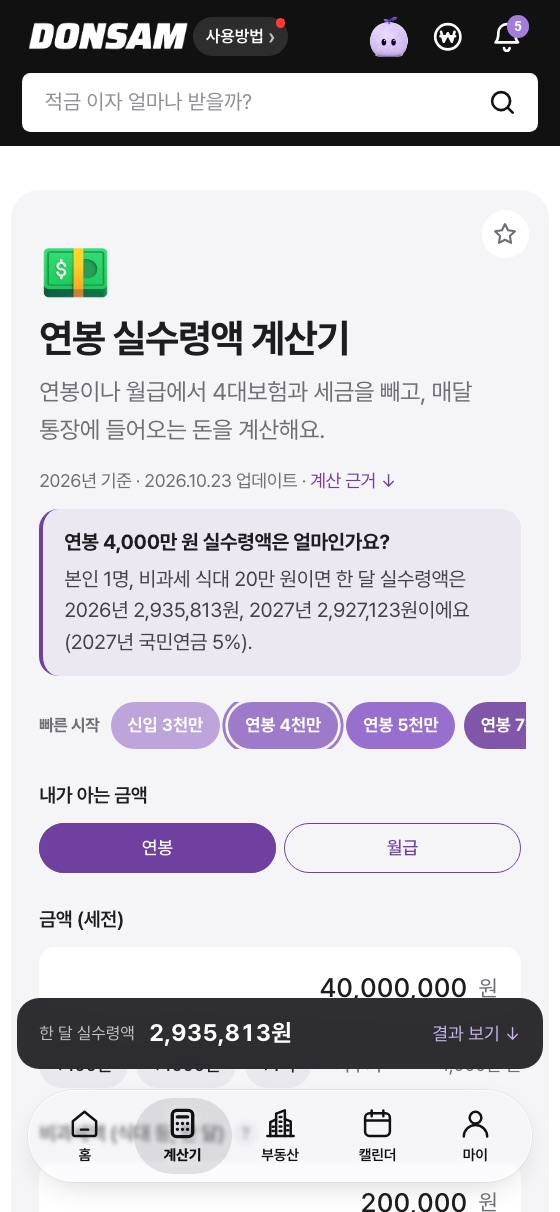
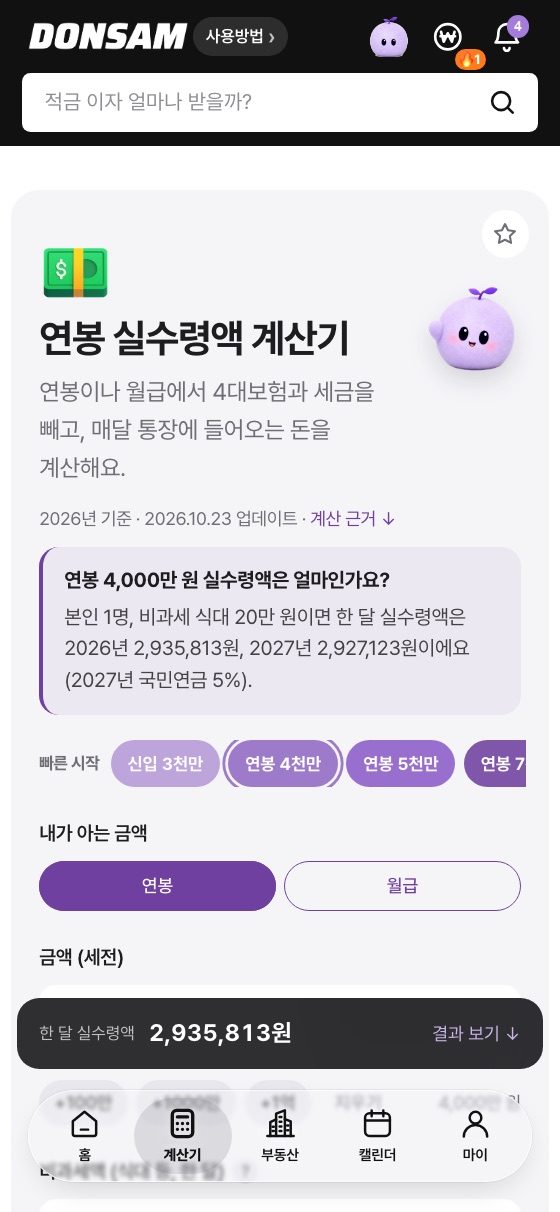
Add files via upload

diff --git a/app.js b/app.js
@@ -4977,7 +4977,7 @@ const PARTNER_LINKS = {
   const SEC = { 1: ['돈 계산 기초', '생활 속 돈 계산을 하나씩 해 보며 돈셈 계산기와 친해져요.'], 2: ['돈 관리 습관', '출석·캘린더·셈이·자산 기능으로 매일 돈을 챙기는 습관을 만들어요.'], 3: ['돈 고수', '투자·절세·내 집 마련까지, 한 단계 깊은 돈 계산에 도전해요.'] };
   const icon = id => I[id] || `/icons/${id}.webp`;
   // 유닛마다 다른 셈이 (듀오링고 길 옆 캐릭터처럼)
-  const SEMI = ['coin', 'coffee', 'piggy', 'search', 'house', 'flower', 'pencil', 'card', 'sleep', 'calc', 'gift', 'book', 'wave', 'chart', 'glasses', 'idea', 'umbrella', 'house', 'piggy', 'trophy'];
+  const SEMI = ['coin', 'wallet', 'piggy', 'search', 'house', 'flower', 'briefcase', 'bag', 'sleep', 'hourglass', 'bell', 'calendar', 'phone', 'crown', 'megaphone', 'rocket', 'umbrella', 'key', 'diamond', 'trophy'];
   const data = () => U.map(u => Object.assign({}, u, { d: u.n.map(x => { try { return !!(x[3] ? x[3]() : used(x[2])); } catch (e) { return false; } }) }));
   const OFF = [0, -58, -82, -58, 0, 58, 82, 58];
   window.drawPath = function drawPath() {
@@ -5076,11 +5076,12 @@ const PARTNER_LINKS = {
 
 // ── 11-27 계산기마다 주제에 맞는 셈이 (카드 오른쪽 위) ──
 (() => {
-  const M = { salary: 'wave', wage: 'wave', 'salary-rank': 'trophy', 'holiday-pay': 'gift', 'year-end-tax': 'gift', 'year-end': 'pencil', 'income-tax': 'pencil', vat: 'calc', 'corporate-tax': 'calc', percent: 'calc', date: 'calc', pyeong: 'calc', 'unit-price': 'calc', 'time-value': 'calc',
-    loan: 'coin', 'loan-limit': 'glasses', prepayment: 'glasses', refinance: 'glasses', 'car-loan': 'card', 'jeonse-check': 'glasses', 'should-i': 'glasses', 'financial-income-tax': 'glasses',
-    savings: 'flower', deposit: 'flower', inflation: 'flower', goal: 'trophy', compound: 'chart', invest: 'chart', 'avg-price': 'chart', 'loss-recovery': 'chart', 'etf-fee': 'chart', dividend: 'chart', 'overseas-stock-tax': 'chart', 'asset-rank': 'chart',
-    isa: 'umbrella', pension: 'umbrella', retirement: 'umbrella', unemployment: 'umbrella', severance: 'umbrella', rent: 'house', 'acquisition-tax': 'house', 'brokerage-fee': 'house', 'subscription-score': 'trophy',
-    'hidden-money': 'search', 'lump-sum': 'idea', discount: 'card', 'used-price': 'card', delivery: 'card', 'fan-budget': 'card', fuel: 'coffee', 'dutch-pay': 'pencil' };
+  const M = { salary: 'wave', wage: 'briefcase', 'salary-rank': 'medal', 'holiday-pay': 'gift', 'year-end-tax': 'gift', 'year-end': 'scroll', 'income-tax': 'scroll', vat: 'calc', 'corporate-tax': 'briefcase', percent: 'calc', date: 'calendar', pyeong: 'calc', 'unit-price': 'calc', 'time-value': 'clock',
+    loan: 'coin', 'loan-limit': 'key', prepayment: 'hourglass', refinance: 'glasses', 'car-loan': 'key', 'jeonse-check': 'glasses', 'should-i': 'scale', 'financial-income-tax': 'scale',
+    savings: 'flower', deposit: 'flower', inflation: 'flower', goal: 'rocket', compound: 'chart', invest: 'chart', 'avg-price': 'chart', 'loss-recovery': 'chart', 'etf-fee': 'chart', dividend: 'pouch', 'overseas-stock-tax': 'chart', 'asset-rank': 'crown',
+    isa: 'umbrella', pension: 'umbrella', retirement: 'cushion', unemployment: 'umbrella', severance: 'briefcase', rent: 'house', 'acquisition-tax': 'house', 'brokerage-fee': 'house', 'subscription-score': 'trophy',
+    'hidden-money': 'search', 'lump-sum': 'diamond', discount: 'bag', 'used-price': 'bag', delivery: 'bag', 'fan-budget': 'card', fuel: 'coffee', 'dutch-pay': 'wallet',
+    quiz: 'grad', 'money-calendar': 'calendar', 'no-spend': 'wallet', collection: 'medal', 'money-type': 'clover', redev: 'key', calculators: 'calc' };
   const parts = location.pathname.split('/').filter(Boolean), n = parts.length === 1 && M[parts[0]];
   if (!n) return;
   const card = document.querySelector('main section.card, .wrap > section.card, .wrap > article.card, section.card'); const h1 = card && card.querySelector('h1');

diff --git a/sw.js b/sw.js
@@ -1,6 +1,6 @@
 // 돈셈 서비스 워커: 인터넷이 끊겨도 가계부와 계산기가 열리게, 사이트 파일을 기기에 보관해요.
 // 사이트를 고쳐서 올릴 때 VERSION을 바꾸면, 예전 보관 파일을 지우고 새로 받아요.
-const VERSION = 'donsem-2026-11-27-338';
+const VERSION = 'donsem-2026-11-27-339';
 const CORE = ['/', '/budget/', '/assets/', '/fixed/', '/calculators/', '/my/', '/quiz/', '/money-type/', '/no-spend/', '/collection/', '/money-calendar/', '/style.css', '/app.js', '/budget.js', '/assets.js', '/pro.js', '/fixed.js', '/vt.js', '/my.js', '/quiz.js', '/quiz-data.js', '/money-type.js', '/no-spend.js', '/collection.js', '/money-calendar.js', '/hidden-money.js', '/real-estate.js', '/redev.js', '/favicon.svg', '/favicon.ico', '/favicon-32.png', '/favicon-96.png', '/logo-donsam.png', '/logo-d.png', '/icon-192.png', '/manifest.webmanifest', '/kb.json'];
 
 self.addEventListener('install', e => {

diff --git a/style.css b/style.css
@@ -4904,4 +4904,4 @@ html[data-theme="dark"] .bn-pts { background: #23232b; box-shadow: 0 0 0 1px rgb
 .has-semi { position: relative; }
 .calc-semi { position: absolute; right: 10px; top: 54px; width: 88px; height: 88px; object-fit: contain; pointer-events: none; filter: drop-shadow(0 8px 8px rgba(30,20,50,.14)); z-index: 1; }
 .has-semi > h1, .has-semi > .sub { padding-right: 92px; }
-@media (min-width: 761px) { .calc-semi { width: 110px; height: 110px; top: 40px; right: 20px; } .has-semi > h1, .has-semi > .sub { padding-right: 124px; } }
+@media (min-width: 761px) { .calc-semi { width: 104px; height: 104px; top: 74px; right: 20px; } .has-semi > h1, .has-semi > .sub { padding-right: 124px; } }
